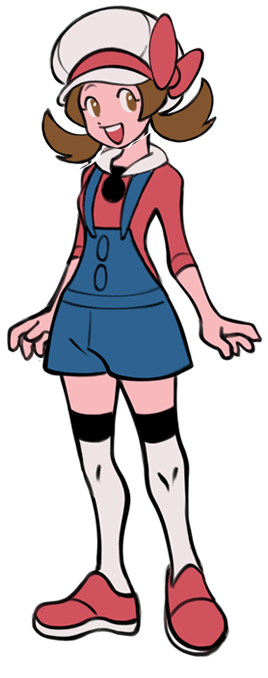
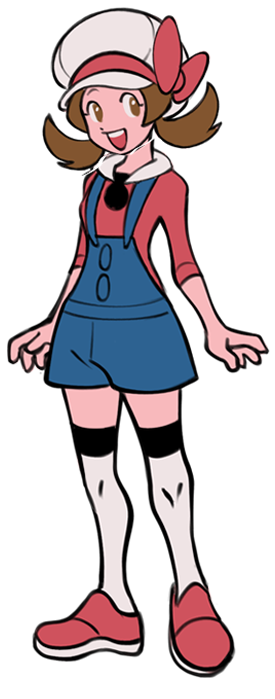
Add files via upload

diff --git a/POKÉMON CHAMP_files/style.css b/POKÉMON CHAMP_files/style.css
@@ -129,7 +129,7 @@ body{
 }
 
 #redyoung {
-    width: 113px;
+    width: 120px;
 }
 
 #crys {
@@ -143,7 +143,7 @@ body{
 
 #lyra
 {
-    width: 132px;
+    width: 137px;
 }
 
 #brendan {
@@ -152,7 +152,7 @@ width: 99px;
 
 #may
 {
-    width: 119px;
+    width: 118px;
 }
 
 #lucas
@@ -200,7 +200,7 @@ width: 128px;
 }
 
 #moon {
-    width: 139px;
+    width: 142px;
 }
 
 #redadult
@@ -235,7 +235,7 @@ width: 128px;
 }
 
 #img1{
-	left:4%;
+	left:2%;
 	z-index:1;
 }
 
@@ -245,21 +245,21 @@ width: 128px;
 }
 
 #img3{
-	left:13%;
+	left:16%;
 	z-index:1;
 }
 
 #img4{
-	left:19%;
+	left:23%;
 }
 
 #img5{
-	left:24%;
+	left:27%;
 	z-index:1;
 }
 
 #img6{
-	left:28%;
+	left: 0%;
 	z-index:1;
 }
 
@@ -274,67 +274,67 @@ width: 128px;
 }
 
 #img9{
-	left:42%;
+	left:44%;
 	z-index:1;
 }
 
 #img10{
-	left:47%;
+	left:50%;
 	z-index:1;
 }
 
 #img11{
-	left:51%;
+	left:55%;
 	z-index:1;
 }
 
 #img12{
-	left:56%;
+	left:61%;
 	z-index:1;
 }
 
 #img13{
-	left:63%;
+	left:70%;
 	z-index:1;
 }
 
 #img14{
-	left:66%;
+	left:0%;
 	z-index:1;
 }
 
 #img15{
-	left:72%;
+	left:0%;
 	z-index:1;
 }
 
 #img16{
-	left:76%;
+	left:0%;
 	z-index:1;
 }
 
 #img17{
-	left:79%;
+	left:0%;
 	z-index:1;
 }
 
 #img18{
-	left:78%;
+	left:76%;
 	z-index:1;
 }
 
 #img19{
-	left:83.5%;
+	left:81%;
 	z-index:1;
 }
 
 #img20{
-	left:89%;
+	left:87%;
 	z-index:1;
 }
 
 #img21{
-	left:46%;
+	left:0%;
 	z-index:100;
 }
 
